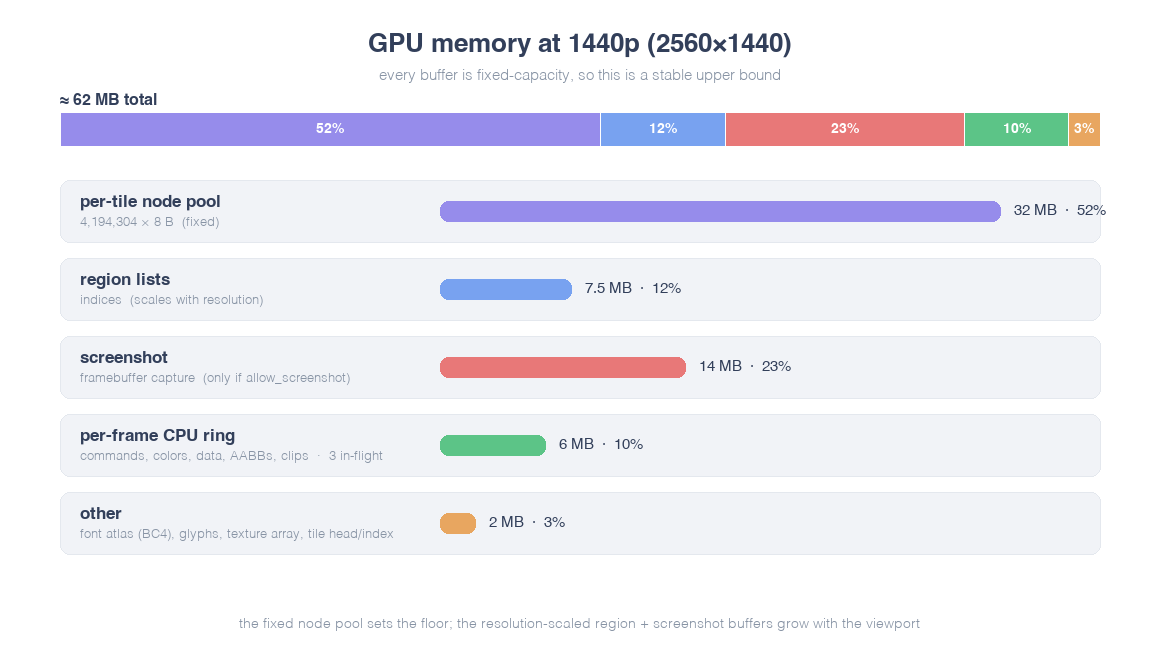
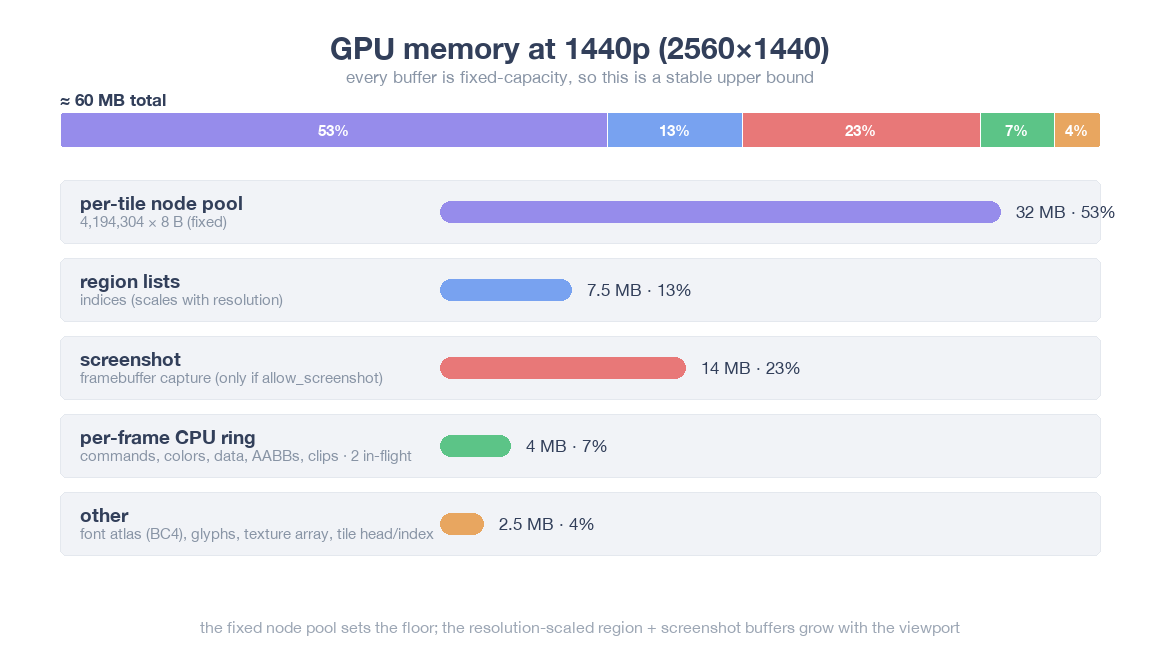
updated doc

diff --git a/doc/part5.md b/doc/part5.md
@@ -4,16 +4,16 @@
 
 ![GPU memory at 1440p](memory.png)
 
-To be honest, the memory usage is a bit higher than I would like. The chart above breaks down the renderer's **GPU memory at 1440p (2560×1440)** into its pieces. The takeaway is that **the 32 MB per-tile node pool is the anchor**: it is the single biggest consumer (~52 %) and it is fixed, sized to `MAX_NODES_COUNT` rather than the framebuffer. `MAX_NODES_COUNT` is ~4 million by default and could be reduced to save memory.
+To be honest, the memory usage is a bit higher than I would like. The chart above breaks down the renderer's **GPU memory at 1440p (2560×1440)** into its pieces. The takeaway is that **the 32 MB per-tile node pool is the anchor**: it is the single biggest consumer (~53 %) and it is fixed, sized to `MAX_NODES_COUNT` rather than the framebuffer. `MAX_NODES_COUNT` is ~4 million by default and could be reduced to save memory.
 
 Everything else is a smaller slice:
 
-* **Region lists (~12 %)** — the per-region `indices` lists are sized to the resolution, because a command can reach several regions. (The `predicate` and `scan` buffers of the older three-kernel design are gone — region binning is fused into a single kernel now.)
+* **Region lists (~13 %)** — the per-region `indices` lists are sized to the resolution, because a command can reach several regions. (The `predicate` and `scan` buffers of the older three-kernel design are gone — region binning is fused into a single kernel now.)
 * **Screenshot (~23 %)** — the framebuffer-sized capture texture; it only exists when `allow_screenshot` is set, so it is the first thing to drop.
-* **Per-frame CPU ring (~10 %)** — commands, colors, draw data, quantized AABBs and clips, **triple-buffered** so three frames can be in flight.
-* **Other (~3 %)** — the font atlas (BC4), the glyph buffer, the user texture array, the small per-tile head/index buffers, and the cache bookkeeping (per-tile hash, clean-tile index, per-command content hash).
+* **Per-frame CPU ring (~7 %)** — commands, colors, draw data, quantized AABBs and clips, **double-buffered** so two frames can be in flight (the CPU encodes a frame while the GPU runs the one before).
+* **Other (~4 %)** — the font atlas (BC4), the glyph buffer, the user texture array, the small per-tile head/index buffers, and the cache bookkeeping (per-tile hash, clean-tile index, per-command content hash).
 
-One piece is missing from the chart on purpose: the [tile cache](part1.md) is **opt-in**, and the chart is the `cache`-off configuration, where only a 1×1 placeholder texture is kept. With the flag on, a full-screen texture in the backbuffer format (4 bytes per pixel — ~14 MiB at 1440p, up to 64 MiB at the 4096×4096 maximum) is added on top, bringing the 1440p total from ~62 MB to ~76 MB.
+One piece is missing from the chart on purpose: the [tile cache](part1.md) is **opt-in**, and the chart is the `cache`-off configuration, where only a 1×1 placeholder texture is kept. With the flag on, a full-screen texture in the backbuffer format (4 bytes per pixel — ~14 MiB at 1440p, up to 64 MiB at the 4096×4096 maximum) is added on top, bringing the 1440p total from ~60 MB to ~74 MB.
 
 So the fixed node pool sets the floor, and the resolution-scaled region, screenshot and cache buffers are what grow with the viewport. Because every buffer is fixed-capacity, the figure reported by `od_get_stats()` is a stable upper bound rather than a per-frame measurement — it stays the same no matter how many commands you actually draw in a frame.
 

diff --git a/doc/part2.md b/doc/part2.md
@@ -66,4 +66,21 @@ You can look at the [binning shader](../src/shaders/binning.metal).
 
 ---
 
+## Occlusion culling
+
+The region's list is kept in draw order, and the `tile_bin` walk goes from the top-most command down — so as soon as it meets a command that **completely hides the tile**, everything below it can be dropped: those commands cannot contribute a single pixel, and the walk stops.
+
+Only **axis-aligned boxes** can occlude, and only when all of these hold — the test is deliberately conservative, a false negative just costs a little extra rasterization:
+
+* **solid** fill — a blurred or dashed box is not a solid cover;
+* **opaque** (alpha 255) — and not inside a **group**, whose global color and outline are composited at the end and could still lighten it;
+* **not clipped** — a clip could cut part of the cover away;
+* **strictly containing the tile** — tested against the box's own parameters shrunk inward by its **corner radius** (a rounded box is not opaque inside its corners) plus a `0.01` px epsilon, rather than against the quantized AABB, which is grown by the anti-aliasing margin and would occlude tiles the box only grazes.
+
+Other shape kinds (discs, triangles, ...) could be tested the same way, but a full 16×16 tile cover happens almost exclusively with boxes in practice, so the extra math is not worth it.
+
+The output is bit-exact either way — a hidden command would have blended nothing on top of an opaque cover. The win scales with how much content sits under opaque shapes, which is the common UI case: a window over a busy background.
+
+---
+
 [Next part](part3.md) : Rasterization

diff --git a/doc/index.md b/doc/index.md
@@ -42,9 +42,9 @@ The whole binning phase runs **on the GPU** as a short chain of compute kernels 
 
 | Stage | What it does |
 |-------|--------------|
-| **draw commands** | The CPU writes a flat list of commands (type, color, quantized AABB, `data[]`) into a triple-buffered ring. |
+| **draw commands** | The CPU writes a flat list of commands (type, color, quantized AABB, `data[]`) into a double-buffered ring. |
 | **region bin** | One threadgroup per region walks the command list, testing each command's AABB against the region and scattering the visible, order-preserving indices into the region's list — a fused predicate + scan + scatter in a single kernel. |
-| **tile bin** | For every tile, walks its region's list and appends the matching commands to the per-tile linked list, keeping each tile's head in a register. |
+| **tile bin** | For every tile, walks its region's list and appends the matching commands to the per-tile linked list, keeping each tile's head in a register; the walk stops at the first fully opaque box that covers the tile ([occlusion culling](part2.md)). |
 | **write indirect args** | Counts the tiles to shade and the tiles to copy, and writes the two indirect draw buffers. |
 
 Because every tile with at least one command is appended to a list of tiles to render, the **indirect draw** rasterizes *only* the tiles that need it — no full-screen pass, and no CPU work after `od_end_frame()`. With the [tile cache](part1.md) on, only the tiles that changed this frame are shaded; unchanged tiles are appended to a second list and redrawn from the cache by a second indirect draw.

diff --git a/doc/FAQ.md b/doc/FAQ.md
@@ -26,8 +26,10 @@ The origin `(0, 0)` is the **top-left** corner of the back buffer. There is no i
 
 ### Does the library cull objects?
 
-Objects outside the screen are not rasterized, but draw commands are still issued. We recommend implementing a high-level culling system if many objects fall outside the screen to avoid wasting draw calls and GPU resources. Note: There is currently no mechanism to detect redundant primitives that will be completely overwritten by an opaque primitive, but we are exploring optimizations to address this.
+Objects outside the screen are not rasterized, but draw commands are still issued. We recommend implementing a high-level culling system if many objects fall outside the screen to avoid wasting draw calls and GPU resources.
+
+As for primitives that are on the screen but completely covered, there is a limited built-in mechanism: during tile binning, a fully opaque, solid, unclipped axis-aligned box that strictly contains a tile stops the tile's command walk, so whatever was drawn under that box is skipped ([occlusion culling](part2.md)). Redundant primitives hidden under anything else — a semi-transparent, clipped, or grouped box, or a non-rectangular shape — are still evaluated.
 
 ### Does the library work on iOS?
 
-It should but it has not been tested, so one should not expect a smooth experience on iOS.
+It should but it has not been tested, so one should not expect a smooth experience on iOS. Especially BC4 texture might not be supported, one should convert the font texture in R8 format.

diff --git a/README.md b/README.md
@@ -10,7 +10,8 @@
 ### Features
 * **Single draw call rendering** – as the name suggests, all primitives are drawn in one draw call.
 * **Hierarchical tile-based binning** – the compute shader processes only the primitives that influence each tile, reducing wasted work.
-* **Tile cache** – opt-in via the `cache` flag of `onedraw_def`: unchanged tiles are redrawn from a full-screen cache texture instead of being re-shaded (4 extra bytes per pixel). On the mostly-static 1440p test scene (M5 Pro, 20 GPU cores) the GPU frame time drops from 1.69 ms to 1.11 ms (−34 %).
+* **Tile cache** – opt-in via the `cache` flag of `onedraw_def`: unchanged tiles are redrawn from a full-screen cache texture instead of being re-shaded (4 extra bytes per pixel). We measured a -34 % on test scene which is mostly static.
+* **Occlusion culling** – while building the per-tile command lists, the walk stops at the first fully opaque box that covers a tile, so content hidden under a window never reaches the fragment shader.
 * **Shader-based alpha blending** – all blending operations are handled in the shader, no framebuffer read/write required.
 * **Anti-aliasing** – smooth edges using signed distance functions.
 * **Lightweight and minimal** – drop-in library with minimal dependencies.
